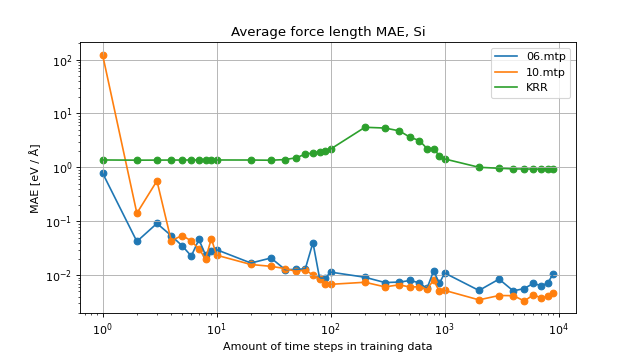
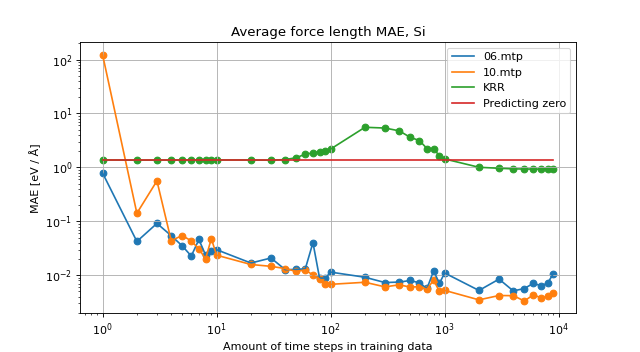
added new plots traing error plots

Changed region(s): [[0.6875, 0.125, 0.9062, 0.3125], [0.1562, 0.4375, 0.875, 0.4688]]

diff --git a/visualization.py b/visualization.py
@@ -233,7 +233,11 @@ def plot_energies(size='big'):
     plt.scatter(timesteps, qml_MAEs_al)
     plt.plot(timesteps, qml_MAEs_al)
 
-    plt.legend(['06.mtp', '10.mtp', 'KRR'])
+    zero_MAEs_al = np.loadtxt('potentials_MAEs/Al_zeros_' + size + '.txt')
+    #plt.scatter(timesteps, zero_MAEs_al)
+    plt.plot(timesteps, zero_MAEs_al)
+    
+    plt.legend(['06.mtp', '10.mtp', 'KRR', 'Predicting zero'])
     #set_xscale('log')
     plt.savefig('figures/Al_energy_per_atom_MAE_all_' + size + '.png')
     plt.show()
@@ -260,7 +264,11 @@ def plot_energies(size='big'):
     plt.scatter(timesteps, qml_MAEs_si)
     plt.plot(timesteps, qml_MAEs_si)
 
-    plt.legend(['06.mtp', '10.mtp', 'KRR'])
+    zero_MAEs_si = np.loadtxt('potentials_MAEs/Si_zeros_' + size + '.txt')
+    #plt.scatter(timesteps, zero_MAEs_si)
+    plt.plot(timesteps, zero_MAEs_si)
+
+    plt.legend(['06.mtp', '10.mtp', 'KRR', 'Predicting zero'], bbox_to_anchor=(1, 1), loc=1, borderaxespad=0)
 
     plt.savefig('figures/Si_energy_per_atom_MAE_all_' + size + '.png')
     #plt.show()
@@ -314,7 +322,11 @@ def plot_forces(size='big'):
     plt.scatter(timesteps, qml_MAEs_al)
     plt.plot(timesteps, qml_MAEs_al)
 
-    plt.legend(['06.mtp', '10.mtp', 'KRR'])
+    zero_MAEs_al = np.loadtxt('forces_MAEs/Al_zeros_' + size + '.txt')
+    #plt.scatter(timesteps, zero_MAEs_al)
+    plt.plot(timesteps, zero_MAEs_al)
+    
+    plt.legend(['06.mtp', '10.mtp', 'KRR', 'Predicting zero'])
     #plt.grid(True)
     plt.savefig('figures/Al_mean_forces_lengths_MAE_all_' + size + '.png')
     plt.show()
@@ -341,7 +353,11 @@ def plot_forces(size='big'):
     plt.scatter(timesteps, qml_MAEs_si)
     plt.plot(timesteps, qml_MAEs_si)
 
-    plt.legend(['06.mtp', '10.mtp', 'KRR'])
+    zero_MAEs_si = np.loadtxt('forces_MAEs/Si_zeros_' + size + '.txt')
+    #plt.scatter(timesteps, zero_MAEs_si)
+    plt.plot(timesteps, zero_MAEs_si)
+
+    plt.legend(['06.mtp', '10.mtp', 'KRR', 'Predicting zero'])
 
     plt.savefig('figures/Si_mean_forces_lengths_MAE_all_' + size + '.png')
     #plt.show()
@@ -637,6 +653,7 @@ def plot_properties_convergence(element, eq, mtp, final=False, offset=0, varianc
     plt.close('all')
 
 if __name__ == "__main__":
+    '''
     #plot_properties_convergence('Si', 'eq_2000', '06', True)
     #plot_test('Al', 'eq_2000', '06', True)
     MAEs_al, MAEs_si = get_MTP_MAEs('all')
@@ -652,7 +669,7 @@ if __name__ == "__main__":
     qml_MAEs_al = np.loadtxt('forces_MAEs/Si_all.txt')
     print(qml_MAEs_al)
     print(len(qml_MAEs_al))
-
+    '''
 
     '''
     mtps = ['06']
@@ -667,9 +684,8 @@ if __name__ == "__main__":
                 #plot_properties_convergence('Si', eq, mtp, True, offset)
     '''
 
-    
-    #plot_forces('all')
-    #plot_energies('all')
+    plot_forces('all')
+    plot_energies('all')
 
     #sizes = ['big', 'small', 'smaller']
     #for s in sizes:

diff --git a/train_qml.py b/train_qml.py
@@ -447,30 +447,48 @@ def write_potential_alphas(X_pos, potentials):
 
 
 def write_zero_potentials_MAEs(potentials):
-    print(potentials)
-    print(len(potentials))
     test_pot = potentials[9000:]
-    
-    MAE = np.mean(np.abs(Y_pred - Y_test))
-    print("MAE:", MAE)
-    return MA
 
-    indeces = range(0, 10, 1)
-    print(indeces)
+    indeces = range(0, 36, 1)
     MAEs = []
-    for i in indeces[1:]:
-        X_pos_train = X_pos[:i]
-        train_pot = potentials[:i]
-        print(len(X_pos_train), len(train_pot))
-        
-        alpha, sigma = train(X_pos_train, train_pot)
-        MAEs.append(evaluate(alpha, sigma, X_pos_train, X_pos_test, test_pot))
+    for i in indeces:
+        pred = np.zeros(len(test_pot))
+        MAE = np.mean(np.abs(pred - test_pot))
+        MAEs.append(MAE)
 
-    MAEs = [x / 8 for x in MAEs]
+    MAEs = [x / 32 for x in MAEs]
     print('MAEs', MAEs)
-    #np.savetxt('potentials_MAEs/Si_smallest.txt', MAEs)
+    print(len(MAEs))
+    np.savetxt('potentials_MAEs/Al_zeros_all.txt', MAEs)
 
 
+def write_zero_forces_MAEs(forces):
+    test_forces = forces[:,9000:] 
+
+    component_MAEs = []
+    for i, atom in enumerate(test_forces):
+        print('atom', atom.shape)
+        y_test = []
+            
+        rs = []
+        thetas = []
+        phis = []
+        for vector in atom:
+            #print('vector', vector)
+            r = np.linalg.norm(vector)
+            rs.append(r)
+            thetas.append(math.atan2(vector[1], vector[0]))
+            phis.append(math.acos(vector[2] / r))
+
+        y_test = np.array([rs, thetas, phis])
+
+        MAE = np.mean(np.abs(np.zeros(y_test.shape) - y_test))
+        component_MAEs.append(MAE)
+
+    MAE = np.mean(component_MAEs)
+    MAEs = np.array([MAE] * 36)
+    print('MAE', MAE)
+    np.savetxt('forces_MAEs/Al_zeros_all.txt', MAEs)
 
 if __name__ == "__main__":
     # import data from infiles
@@ -499,6 +517,7 @@ if __name__ == "__main__":
     #X_pos = generate_representations(positions, timesteps, atoms, num_atoms, atomic_num, 'sine')
 
     write_zero_potentials_MAEs(potentials)
+    write_zero_forces_MAEs(forces)
     #indeces = range(1, 10, 1)
     #write_potentials_MAEs(X_pos, potentials)
     #train_and_evaluate_forces(X_pos, forces, indeces)
